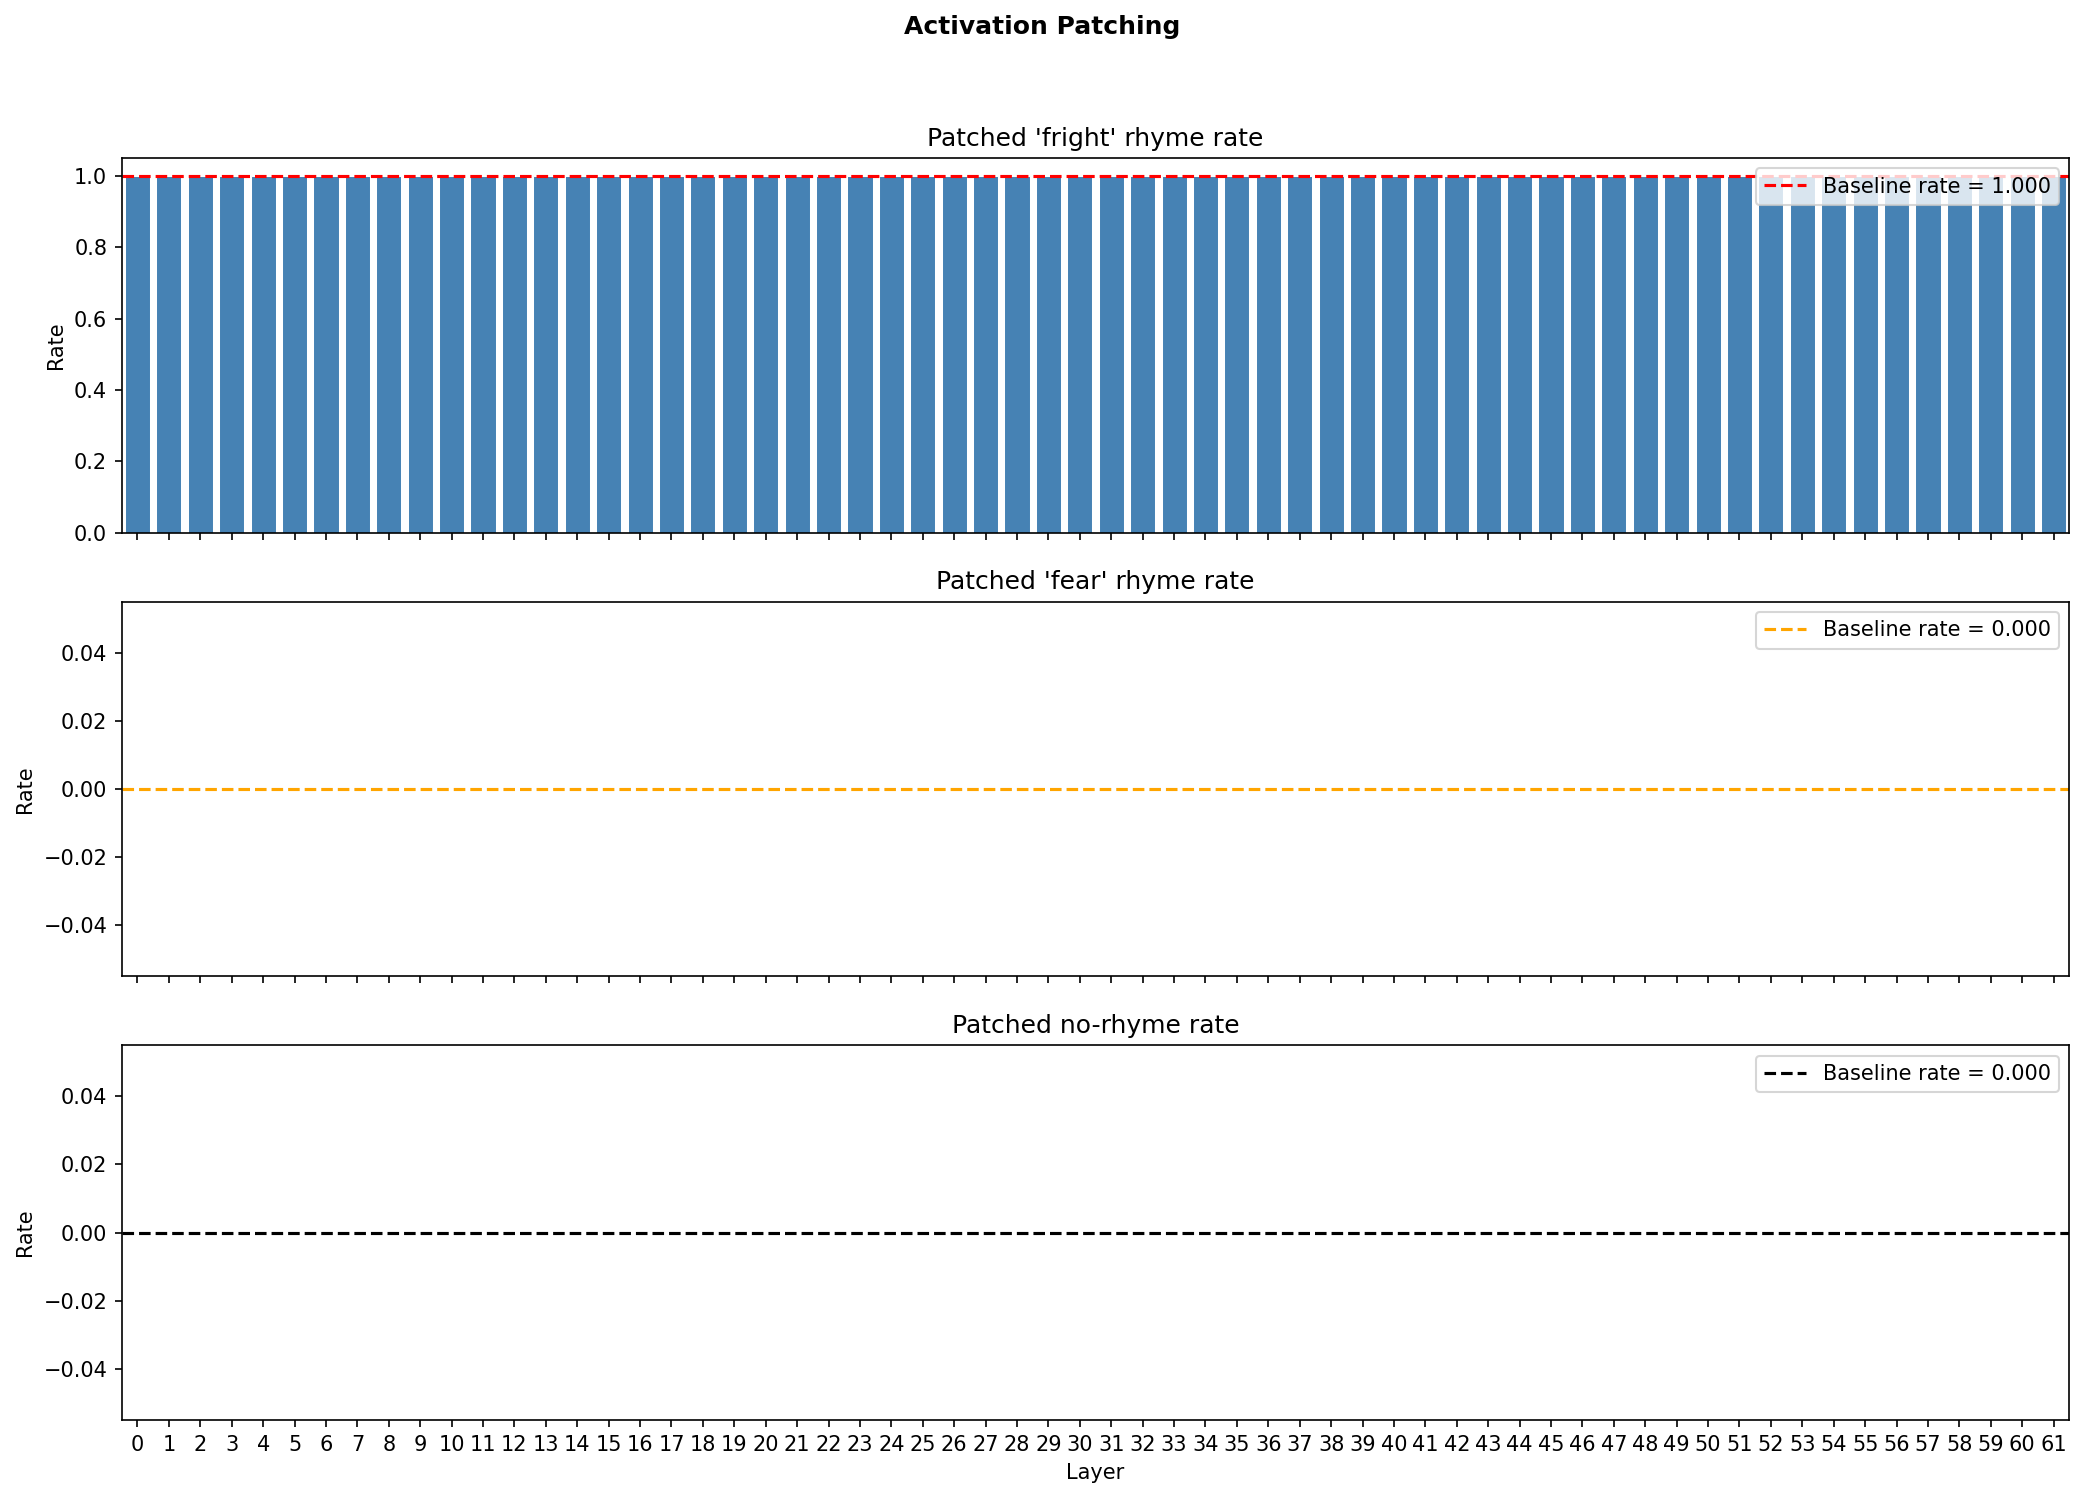
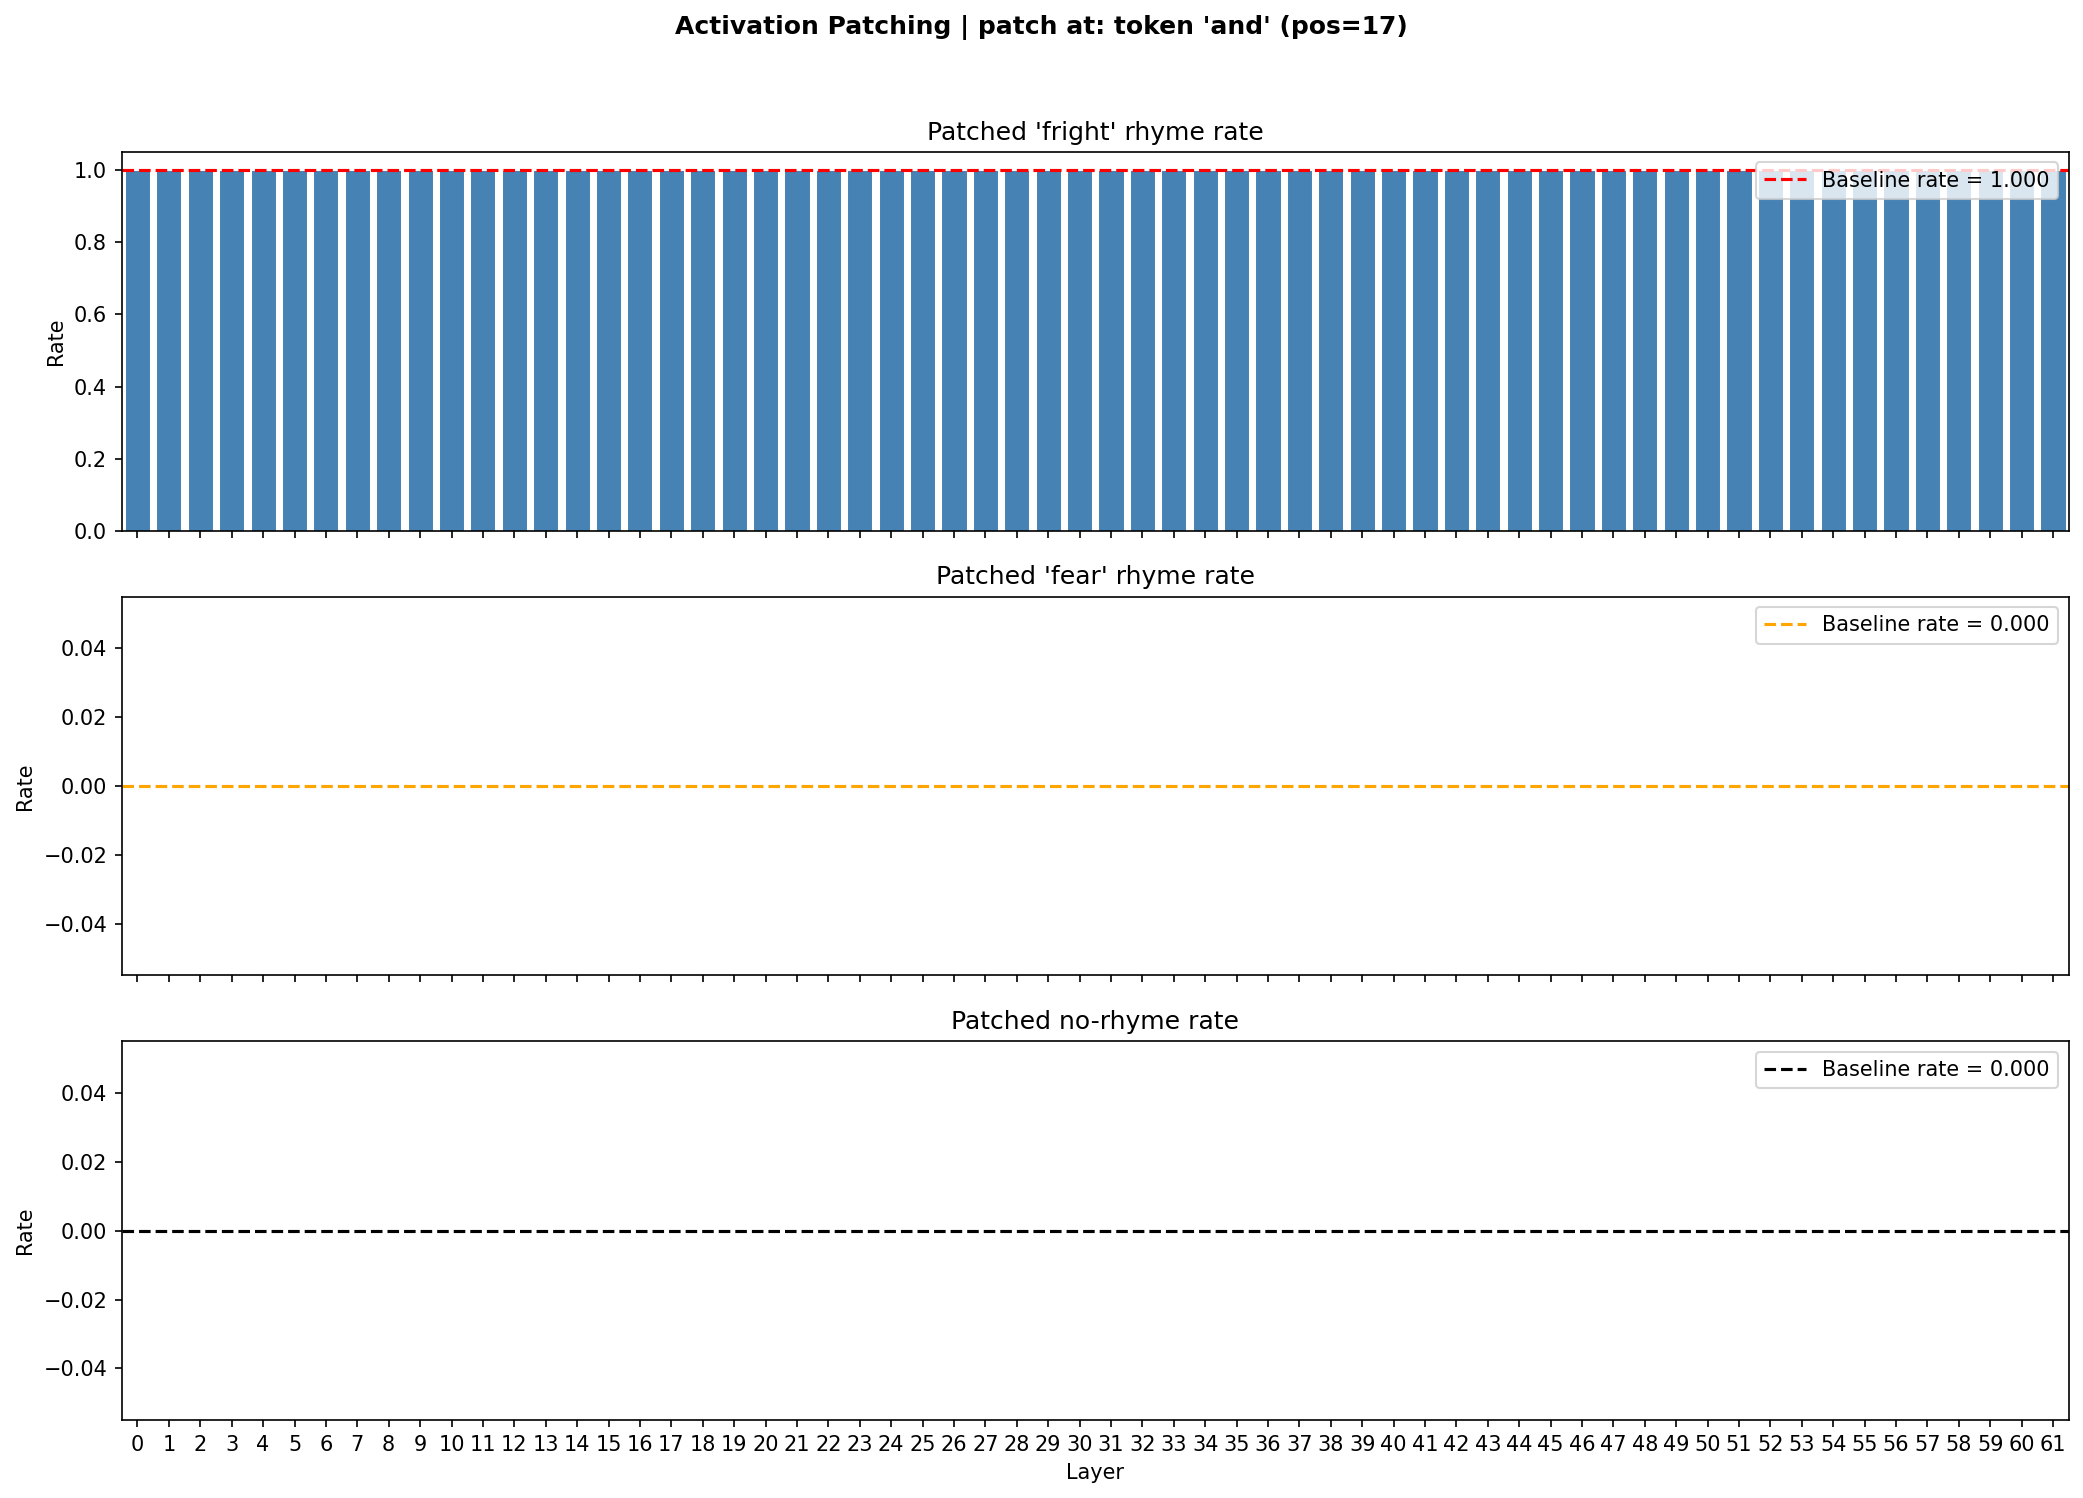
result: all qwen3 per-layer results

diff --git a/activation-patching/plot_three_histograms.py b/activation-patching/plot_three_histograms.py
@@ -7,6 +7,47 @@ from pathlib import Path
 import matplotlib.pyplot as plt
 
 
+def _relative_patch_label(data: dict) -> str:
+    """
+    Build a label like  i=0 ('\\n')  or  i=+1 ('and')  from JSON metadata.
+    Falls back to the raw source_patch_label string if anything fails.
+    """
+    raw_label = data.get("source_patch_label", data.get("target_patch_label", data.get("patch_label", "?")))
+    source_patch_pos = data.get("source_patch_pos")
+    corrupt_prompt = data.get("corrupt_prompt", "")
+    model_name = data.get("model_name", "")
+
+    if source_patch_pos is None or not corrupt_prompt or not model_name:
+        return raw_label
+
+    try:
+        from transformers import AutoTokenizer
+        tokenizer = AutoTokenizer.from_pretrained(model_name, trust_remote_code=True)
+        enc = tokenizer(corrupt_prompt, return_offsets_mapping=True, add_special_tokens=True)
+        offset_mapping = enc["offset_mapping"]
+        token_ids = enc["input_ids"]
+
+        # Find second newline character position in the string
+        newline_chars = [i for i, ch in enumerate(corrupt_prompt) if ch == "\n"]
+        if len(newline_chars) < 2:
+            return raw_label
+        second_nl_char = newline_chars[1]
+
+        second_nl_tok = next(
+            (i for i, (s, e) in enumerate(offset_mapping) if s <= second_nl_char < e),
+            None,
+        )
+        if second_nl_tok is None:
+            return raw_label
+
+        rel_pos = source_patch_pos - second_nl_tok
+        tok_str = tokenizer.decode([token_ids[source_patch_pos]])
+        sign = "+" if rel_pos >= 0 else ""
+        return f"i={sign}{rel_pos} ({repr(tok_str)})"
+    except Exception:
+        return raw_label
+
+
 def make_plot(json_path: Path, output_path: Path, swap_labels: bool = False) -> None:
     data = json.loads(json_path.read_text(encoding="utf-8"))
     results = data["results"]
@@ -44,6 +85,7 @@ def make_plot(json_path: Path, output_path: Path, swap_labels: bool = False) -> 
     patch_label = data.get("patch_label", "?")
     sampling_n = data.get("sampling_n")
     sampling_temp = data.get("sampling_temp")
+    source_patch_label = _relative_patch_label(data)
 
     top_label_word = corrupt_word if swap_labels else clean_word
     mid_label_word = clean_word if swap_labels else corrupt_word
@@ -110,7 +152,7 @@ def make_plot(json_path: Path, output_path: Path, swap_labels: bool = False) -> 
         ax.set_xticks(layers)
 
     axes[2].set_xlabel("Layer")
-    fig.suptitle("Activation Patching", y=0.995, fontweight="bold", ha="center")
+    fig.suptitle(f"Activation Patching | patch at: {source_patch_label}", y=0.995, fontweight="bold", ha="center")
     plt.tight_layout(rect=[0, 0, 1, 0.97])
 
     output_path.parent.mkdir(parents=True, exist_ok=True)
